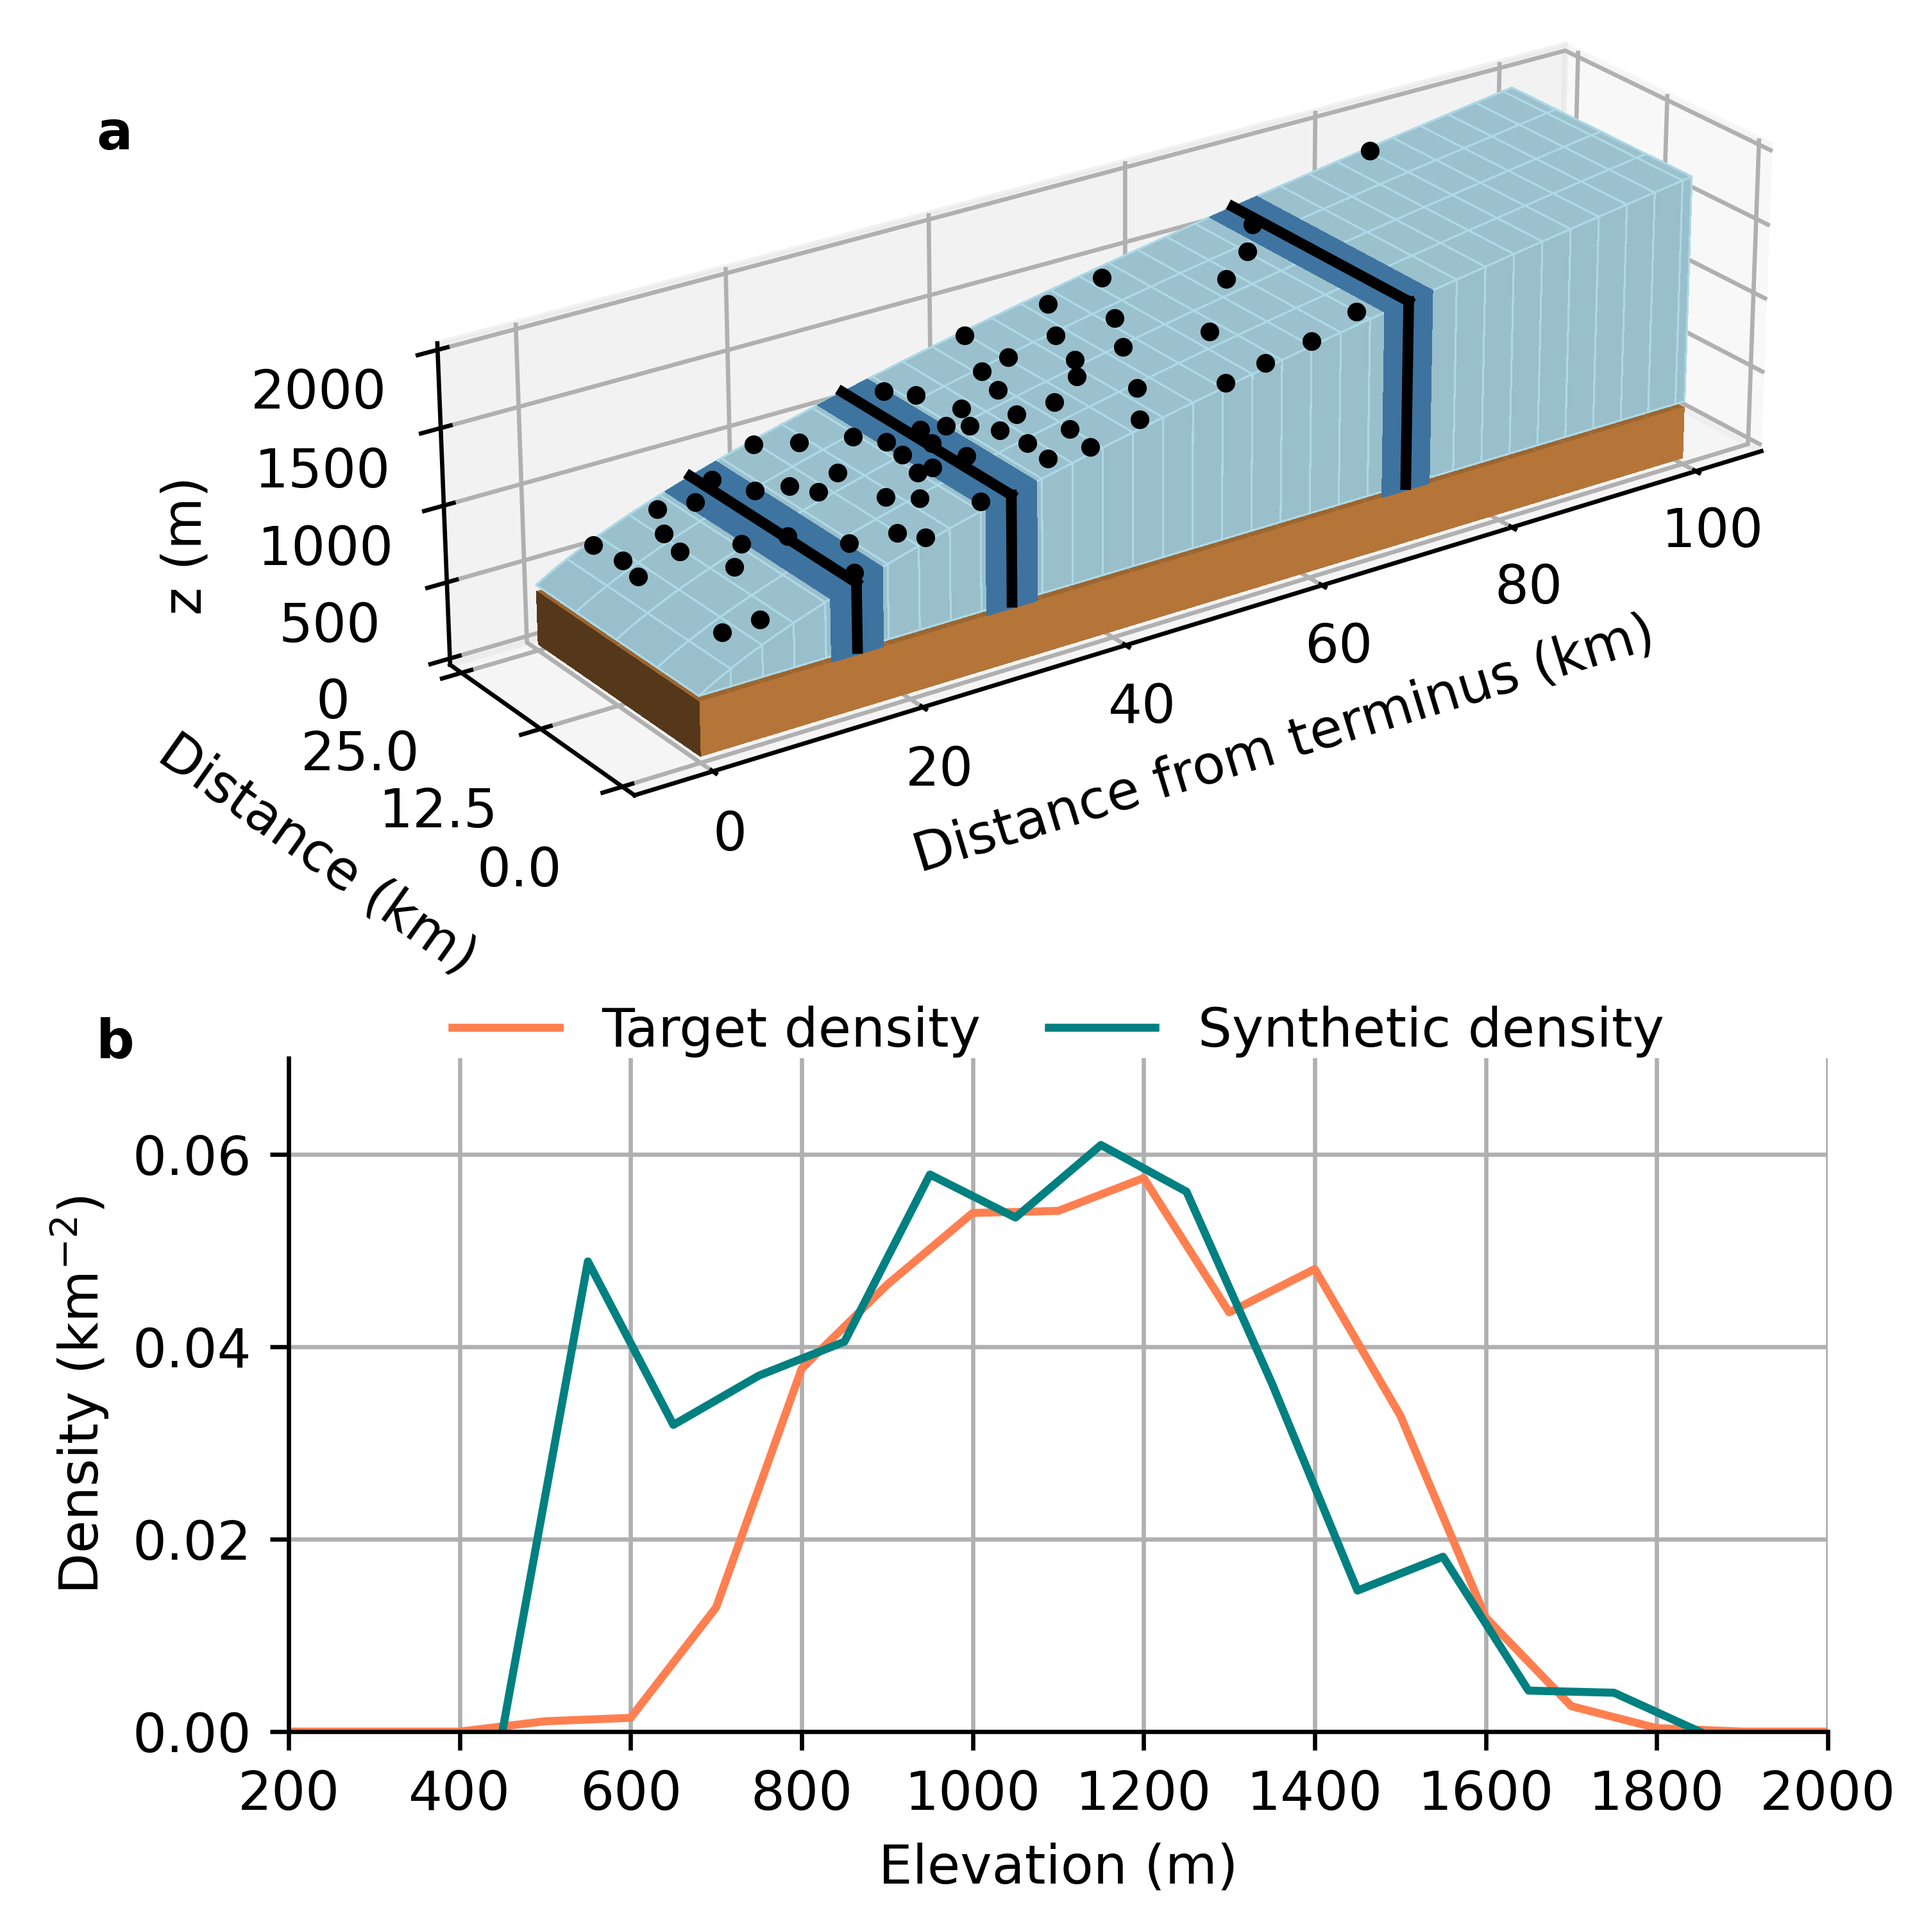
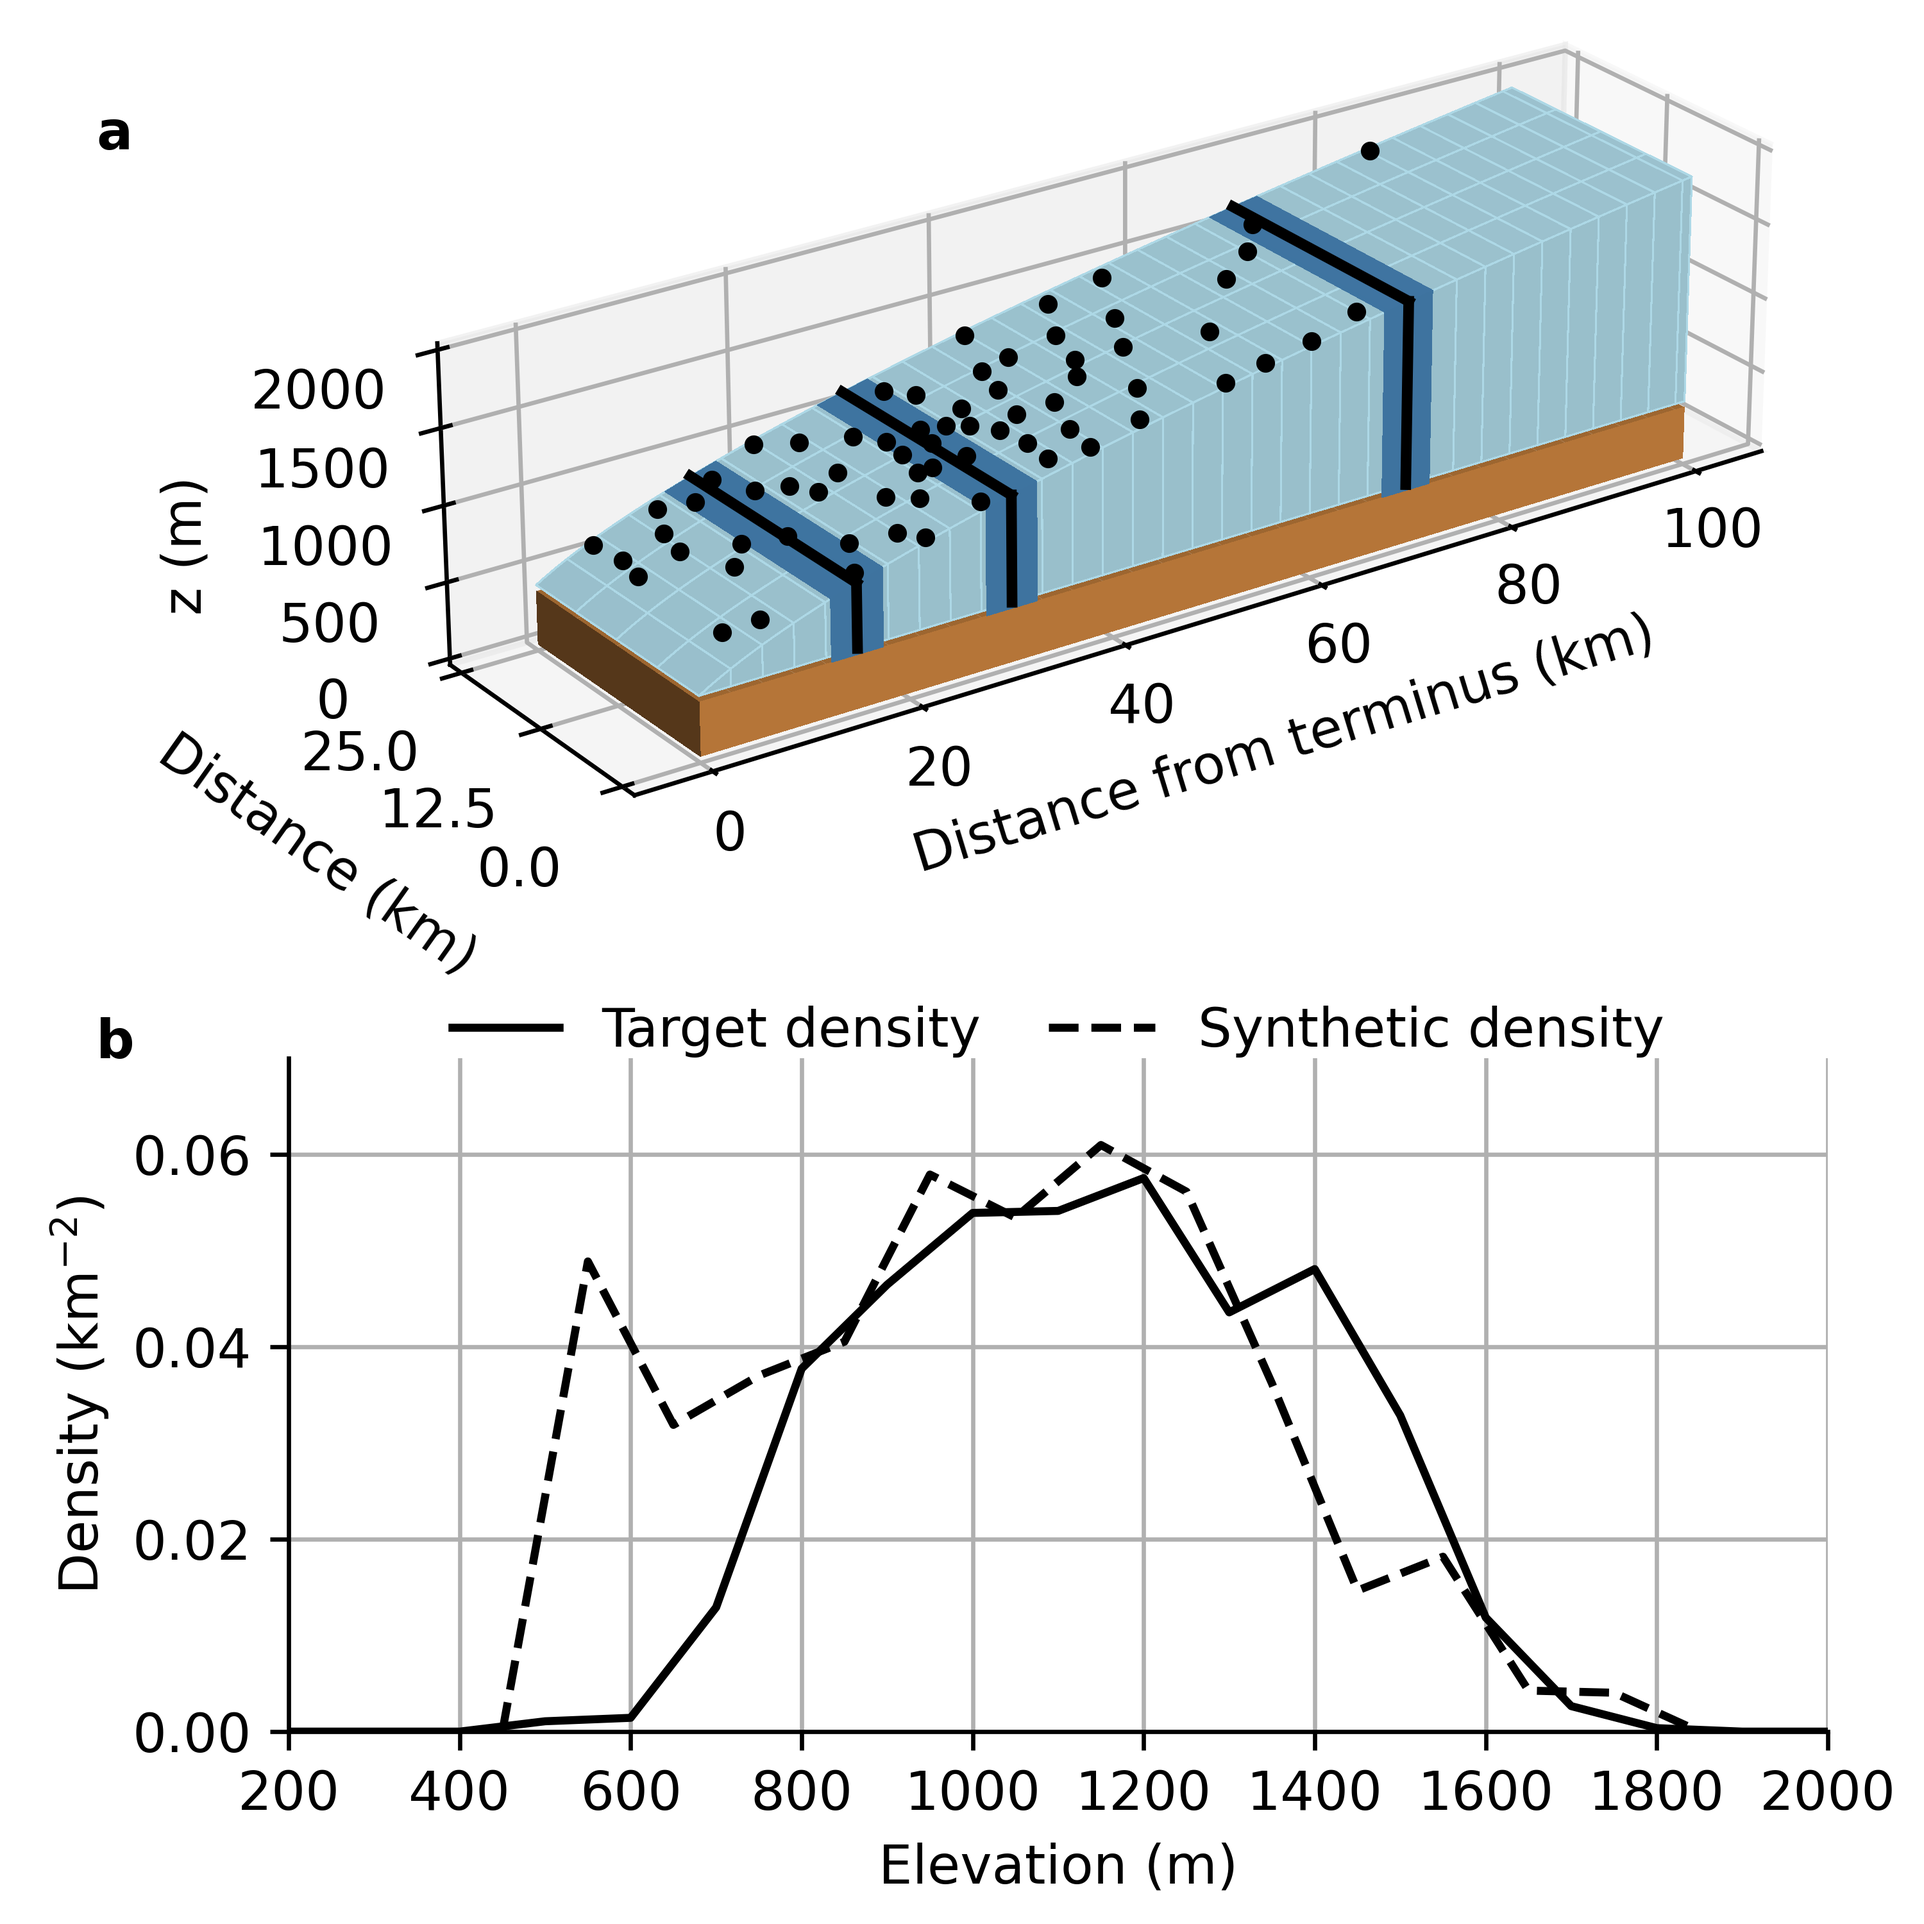
fig code

diff --git a/analysis/plot_flux_params.py b/analysis/plot_flux_params.py
@@ -28,7 +28,6 @@ gradphi = (phi_max - phi_min)/100e3
 # Conductivity scaling
 h3 = nu/omega/k_s/gradphi
 hcrit = h3**(1/3)
-print('Transition h:', hcrit)
 k_t = lambda alpha: k_s * h3**(1 - alpha/3) * gradphi**(2 - 3/2)
 
 # Compute flux
@@ -41,35 +40,33 @@ q_lam = k_s*h**3*gradphi
 q_tran_54 = nu/omega * (h_bed/h)**(3 - 2*5/4) * ( -1 + np.sqrt(1 + 4*omega/nu * (h/h_bed)**(3-2*5/4)*k_s*h**3*gradphi))
 q_tran_32 = nu/omega * (h_bed/h)**(3 - 2*3/2) * ( -1 + np.sqrt(1 + 4*omega/nu * (h/h_bed)**(3-2*3/2)*k_s*h**3*gradphi))
 
-fig, ax = plt.subplots()
+fig, ax = plt.subplots(figsize=(4, 3.5))
 
-# ax.loglog(h/hcrit, omega/nu * q_turb_54, color=colors[0], linewidth=2, label='Turbulent 5/4')
-# ax.loglog(h/hcrit, omega/nu * q_turb_32, color=colors[1], linewidth=1, label='Turbulent 3/2')
-# ax.loglog(h/hcrit, omega/nu * q_lam, color=colors[2], linewidth=0.75, linestyle='dashed', zorder=5, label='Laminar')
-# ax.loglog(h/hcrit, omega/nu * q_tran_54, color=colors[3], linewidth=2.5, label='Transition 5/4')
-# ax.loglog(h/hcrit, omega/nu * q_tran_32, color=colors[4], linewidth=1.25, label='Transition 3/2')
+# linewidths = np.array([1.75, 1, 0.5, 2.5, 1.25])
+ax.loglog(h/hcrit, omega/nu * q_turb_54, color=colors[0], linewidth=2.5, label='Turbulent 5/4')
+ax.loglog(h/hcrit, omega/nu * q_turb_32, color=colors[1], linewidth=1.25, label='Turbulent 3/2')
+ax.loglog(h/hcrit, omega/nu * q_lam, color=colors[2], linewidth=0.75, linestyle='dashed', zorder=5, label='Laminar')
+ax.loglog(h/hcrit, omega/nu * q_tran_54, color=colors[3], linewidth=2.5, label='Transition 5/4')
+ax.loglog(h/hcrit, omega/nu * q_tran_32, color=colors[4], linewidth=1.25, label='Transition 3/2')
 
-ax.plot(h/hcrit, omega/nu * q_turb_54, color=colors[0], linewidth=2, label='Turbulent 5/4')
-ax.plot(h/hcrit, omega/nu * q_turb_32, color=colors[1], linewidth=1, label='Turbulent 3/2')
-ax.plot(h/hcrit, omega/nu * q_lam, color=colors[2], linewidth=0.75, linestyle='dashed', zorder=5, label='Laminar')
-ax.plot(h/hcrit, omega/nu * q_tran_54, color=colors[3], linewidth=2.5, label='Transition 5/4')
-ax.plot(h/hcrit, omega/nu * q_tran_32, color=colors[4], linewidth=1.25, label='Transition 3/2')
-ax.legend()
+# ax.plot(h/hcrit, omega/nu * q_turb_54, color=colors[0], linewidth=2, label='Turbulent 5/4')
+# ax.plot(h/hcrit, omega/nu * q_turb_32, color=colors[1], linewidth=1, label='Turbulent 3/2')
+# ax.plot(h/hcrit, omega/nu * q_lam, color=colors[2], linewidth=0.75, linestyle='dashed', zorder=5, label='Laminar')
+# ax.plot(h/hcrit, omega/nu * q_tran_54, color=colors[3], linewidth=2.5, label='Transition 5/4')
+# ax.plot(h/hcrit, omega/nu * q_tran_32, color=colors[4], linewidth=1.25, label='Transition 3/2')
+ax.legend(frameon=False)
 
-fig.subplots_adjust(right=0.95)
-fig.subplots_adjust(top=0.95)
-
-# ax.set_ylim([1e-2, 1e2])
-# ax.set_xlim([1e-1, 1e1])
-
-ax.set_xlim([0, 2])
-ax.set_ylim([0, 5])
+ax.set_ylim([1e-2, 1e2])
+ax.set_xlim([1e-1, 1e1])
+# ax.set_xlim([0, 2])
+# ax.set_ylim([0, 5])
 
 ax.set_xlabel(r'$\tilde h$')
-ax.set_ylabel(r'$\omega {\rm{Re}} = \frac{\omega q}{\nu}$')
+ax.set_ylabel(r'$\frac{q \omega}{\nu}$', labelpad=0)
 ax.grid()
 
-fig.savefig('flux_parameterizations_linear.png', dpi=600)
+fig.subplots_adjust(left=0.16, bottom=0.15, right=0.95, top=0.95)
+fig.savefig('flux_parameterizations.png', dpi=600)
 
 plt.show()
 

diff --git a/analysis/plot_moody_scatter.py b/analysis/plot_moody_scatter.py
@@ -126,7 +126,14 @@ def plot_moody(fnames, figname, colors=defaults.colors, omega=1/2000,
         elif models[ii]=='Laminar':
             f_lam = f_D[0]
 
-        ax_scatter.scatter(Re.flatten(), f_D.flatten(), color=colors[ii], label=models[ii], s=2, alpha=1, zorder=10, edgecolor='none')
+        if models[ii]=='Laminar':
+            xvals = Re.flatten()
+            yvals = f_D.flatten()
+            iisort = np.argsort(xvals)
+            ax.plot(xvals(iisort), yvals(iisort), color=colors[ii],
+                label=models[ii], zorder=20, linestyle='dashed')
+        else:
+            ax_scatter.scatter(Re.flatten(), f_D.flatten(), color=colors[ii], label=models[ii], s=2, alpha=1, zorder=10, edgecolor='none')
 
     ax_scatter.set_xscale('log')
     ax_scatter.set_yscale('log')

diff --git a/analysis/plot_bed_ice_profiles.py b/analysis/plot_bed_ice_profiles.py
@@ -132,8 +132,8 @@ yang_2016_density = np.loadtxt('../glads/data/yang2016_moulins/yang2016_density.
 z_bin_center = 0.5*(z_bins[:-1] + z_bins[1:])
 ax2 = fig.add_subplot()
 ax2.set_position(Bbox.from_bounds(0.15, 0.1, 0.8, 0.35))
-ax2.plot(yang_2016_density[:, 0], yang_2016_density[:, 1], label='Target density', color='coral')
-ax2.plot(z_bin_center, density_bins, label='Synthetic density', color='teal')
+ax2.plot(yang_2016_density[:, 0], yang_2016_density[:, 1], label='Target density', color='k')
+ax2.plot(z_bin_center, density_bins, label='Synthetic density', color='k', linestyle='dashed')
 ax2.spines['right'].set_visible(False)
 ax2.spines['top'].set_visible(False)
 ax2.set_xlim([200, 2000])

diff --git a/analysis/defaults.py b/analysis/defaults.py
@@ -21,7 +21,7 @@ colors = np.array([[0.579, 0.677, 0.781, 1],
                    [0.929, 0.835, 0.408, 1],
                    [0.836, 0.590, 0.160, 1]])
 
-linewidths = np.array([1.75, 1, 0.5, 2.5, 1.25])
+linewidths = np.array([2.5, 1.25, 0.5, 2.5, 1.25])
 linestyles = ['solid', 'solid', 'dashed', 'solid', 'solid']
 zorders = [2, 2, 3, 2, 2]
 
